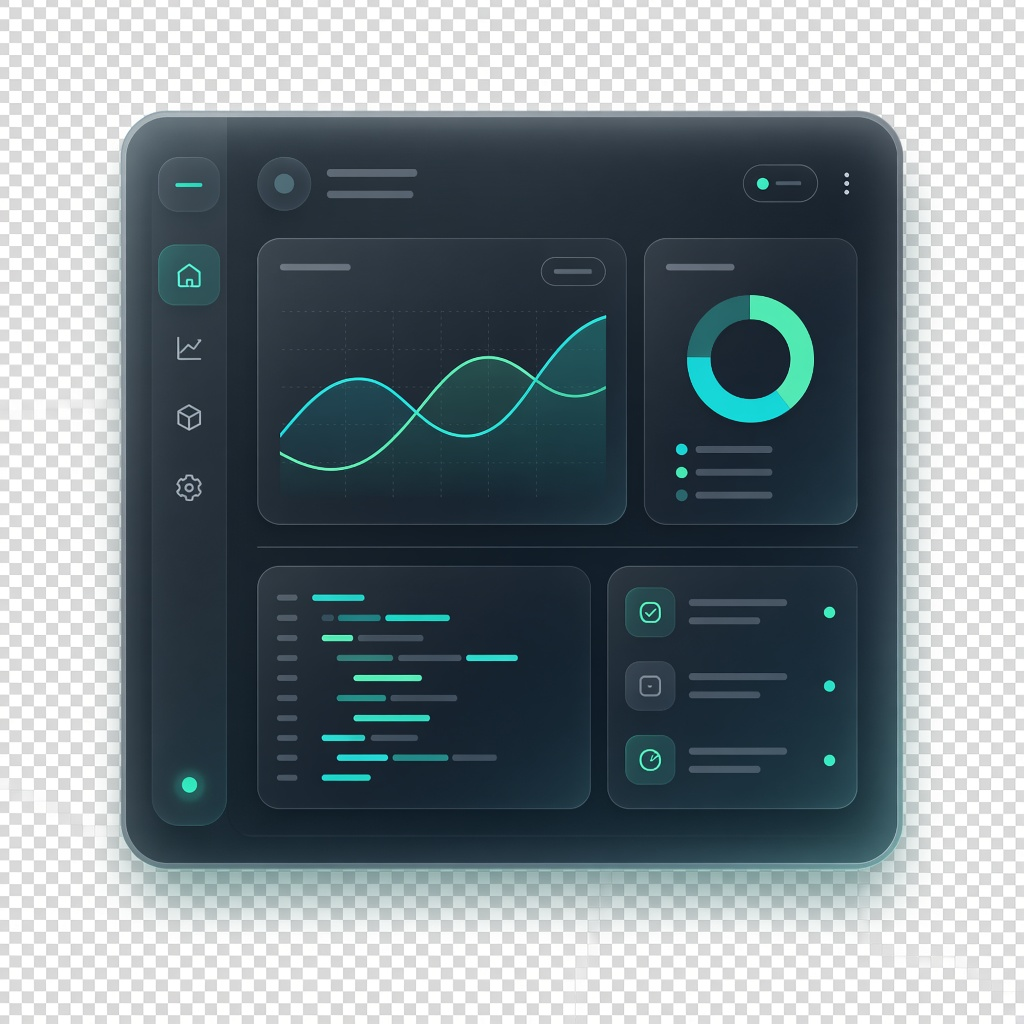
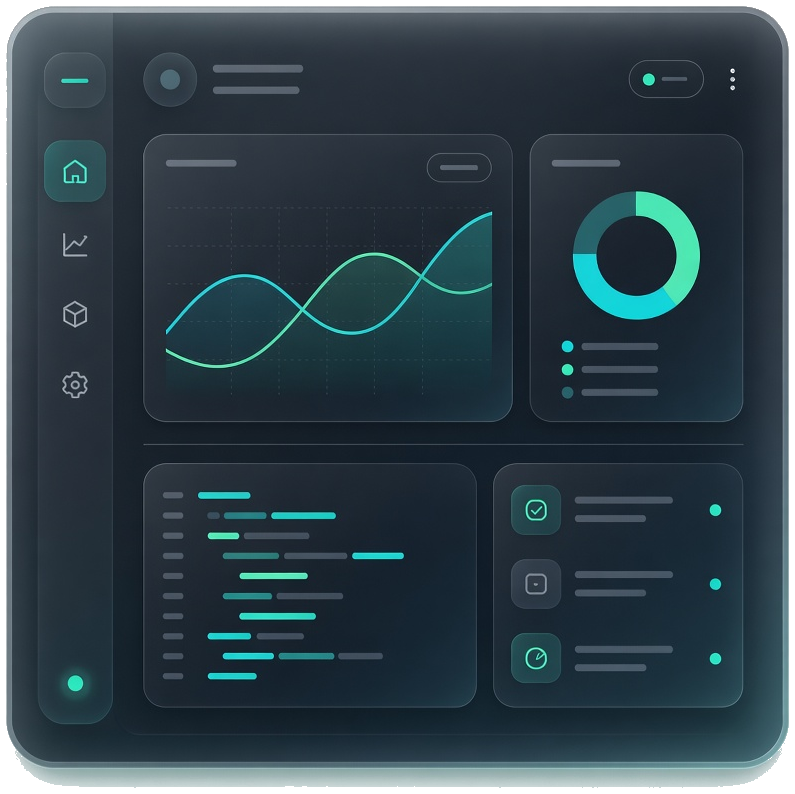
Enhance index.html with additional meta tags for SEO and accessibility, update image formats for better compatibility, and improve the structure of the hero section. Refactor styles.css for a premium dark portfolio design, optimizing visual elements and responsiveness. Update main.js to streamline c

diff --git a/css/styles.css b/css/styles.css
@@ -252,14 +252,180 @@ a:hover { text-decoration: underline; }
 .mid-asset {
   width: min(58vw, 520px);
   aspect-ratio: 1 / 1;
-  opacity: 0.5;
+  opacity: 0.72;
+  display: grid;
+  place-items: center;
 }
-.mid-asset img {
+.mid-asset > img {
   width: 100%;
   height: 100%;
   object-fit: contain;
   aspect-ratio: 1 / 1;
   filter: drop-shadow(0 28px 60px rgba(0, 0, 0, 0.45));
+  background: transparent;
+}
+
+/* CSS product mock — real transparency, no checkerboard image */
+.product-mock {
+  width: 100%;
+  aspect-ratio: 1 / 1;
+  display: grid;
+  grid-template-columns: 52px 1fr;
+  gap: 0.65rem;
+  padding: 0.85rem;
+  border-radius: 28px;
+  background: linear-gradient(145deg, rgba(22, 32, 48, 0.82), rgba(12, 18, 30, 0.78));
+  border: 1px solid rgba(255, 255, 255, 0.12);
+  box-shadow:
+    0 28px 70px rgba(0, 0, 0, 0.45),
+    0 0 40px rgba(62, 224, 192, 0.08),
+    inset 0 1px 0 rgba(255, 255, 255, 0.08);
+  backdrop-filter: blur(16px);
+  -webkit-backdrop-filter: blur(16px);
+}
+.pm-side {
+  display: flex;
+  flex-direction: column;
+  align-items: center;
+  gap: 0.7rem;
+  padding: 0.55rem 0;
+  border-radius: 16px;
+  background: rgba(0, 0, 0, 0.28);
+}
+.pm-ico {
+  width: 28px;
+  height: 28px;
+  border-radius: 9px;
+  border: 1px solid rgba(255, 255, 255, 0.12);
+  background: rgba(255, 255, 255, 0.04);
+}
+.pm-ico.is-active {
+  background: rgba(62, 224, 192, 0.22);
+  border-color: rgba(62, 224, 192, 0.55);
+  box-shadow: 0 0 16px rgba(62, 224, 192, 0.35);
+}
+.pm-dot {
+  margin-top: auto;
+  width: 8px;
+  height: 8px;
+  border-radius: 50%;
+  background: var(--accent);
+  box-shadow: 0 0 12px var(--accent);
+}
+.pm-main { display: flex; flex-direction: column; gap: 0.65rem; min-width: 0; }
+.pm-top {
+  display: flex;
+  align-items: center;
+  gap: 0.55rem;
+}
+.pm-avatar {
+  width: 28px;
+  height: 28px;
+  border-radius: 50%;
+  background: linear-gradient(135deg, rgba(62,224,192,0.5), rgba(79,140,255,0.45));
+}
+.pm-lines {
+  flex: 1;
+  height: 8px;
+  border-radius: 999px;
+  background: linear-gradient(90deg, rgba(255,255,255,0.18), rgba(255,255,255,0.05));
+}
+.pm-toggle {
+  width: 42px;
+  height: 22px;
+  border-radius: 999px;
+  background: rgba(62, 224, 192, 0.25);
+  border: 1px solid rgba(62, 224, 192, 0.4);
+  position: relative;
+}
+.pm-toggle::after {
+  content: "";
+  position: absolute;
+  top: 2px;
+  right: 3px;
+  width: 16px;
+  height: 16px;
+  border-radius: 50%;
+  background: var(--accent);
+}
+.pm-grid {
+  flex: 1;
+  display: grid;
+  grid-template-columns: 1.4fr 1fr;
+  grid-template-rows: 1.2fr 1fr;
+  gap: 0.55rem;
+  min-height: 0;
+}
+.pm-card {
+  border-radius: 14px;
+  background: rgba(255, 255, 255, 0.04);
+  border: 1px solid rgba(255, 255, 255, 0.08);
+  padding: 0.55rem;
+  min-height: 0;
+}
+.pm-chart { display: grid; }
+.pm-chart svg { width: 100%; height: 100%; }
+.pm-donut {
+  display: flex;
+  flex-direction: column;
+  align-items: center;
+  justify-content: center;
+  gap: 0.35rem;
+}
+.pm-donut .ring {
+  width: 54px;
+  height: 54px;
+  border-radius: 50%;
+  background:
+    conic-gradient(var(--accent) 0 42%, var(--accent-2) 42% 72%, rgba(255,255,255,0.15) 72% 100%);
+  mask: radial-gradient(circle at center, transparent 55%, #000 56%);
+  -webkit-mask: radial-gradient(circle at center, transparent 55%, #000 56%);
+}
+.pm-donut .leg {
+  width: 70%;
+  height: 5px;
+  border-radius: 999px;
+  background: rgba(255, 255, 255, 0.12);
+}
+.pm-code {
+  display: flex;
+  flex-direction: column;
+  justify-content: center;
+  gap: 0.35rem;
+}
+.pm-code span {
+  display: block;
+  height: 7px;
+  border-radius: 999px;
+  background: linear-gradient(90deg, rgba(62,224,192,0.55), rgba(255,255,255,0.08));
+}
+.pm-code span:nth-child(2) { width: 78%; }
+.pm-code span:nth-child(3) { width: 92%; background: linear-gradient(90deg, rgba(79,140,255,0.5), rgba(255,255,255,0.08)); }
+.pm-code span:nth-child(4) { width: 64%; }
+.pm-code span:nth-child(5) { width: 84%; }
+.pm-list {
+  display: flex;
+  flex-direction: column;
+  justify-content: center;
+  gap: 0.45rem;
+}
+.pm-list .row {
+  display: flex;
+  align-items: center;
+  gap: 0.4rem;
+}
+.pm-list i {
+  width: 16px;
+  height: 16px;
+  border-radius: 5px;
+  background: rgba(62, 224, 192, 0.25);
+  border: 1px solid rgba(62, 224, 192, 0.35);
+}
+.pm-list b {
+  flex: 1;
+  height: 6px;
+  border-radius: 999px;
+  background: rgba(255, 255, 255, 0.12);
 }
 
 .hero-card {

diff --git a/index.html b/index.html
@@ -60,7 +60,6 @@
   <!-- Critical visual preloads (WebP) -->
   <link rel="preload" as="image" href="/assets/images/layer-bg-nebula.webp" type="image/webp" fetchpriority="high" />
   <link rel="preload" as="image" href="/assets/images/profile.webp" type="image/webp" fetchpriority="high" />
-  <link rel="preload" as="image" href="/assets/images/layer-mid-product.webp" type="image/webp" />
 
   <script type="application/ld+json">
   {
@@ -152,19 +151,45 @@
         <div class="bg-veil"></div>
       </div>
 
-      <!-- Midground layer · 0.5x -->
+      <!-- Midground layer · 0.5x · CSS glass product (true transparency) -->
       <div class="stack-layer layer-mid" data-velocity="0.5" aria-hidden="true">
         <div class="mid-asset" data-scroll-anim="mid">
-          <picture>
-            <source srcset="/assets/images/layer-mid-product.webp" type="image/webp" />
-            <img
-              src="/assets/images/layer-mid-product.png"
-              alt=""
-              width="800"
-              height="800"
-              decoding="async"
-            />
-          </picture>
+          <div class="product-mock" aria-hidden="true">
+            <aside class="pm-side">
+              <span class="pm-ico is-active"></span>
+              <span class="pm-ico"></span>
+              <span class="pm-ico"></span>
+              <span class="pm-ico"></span>
+              <span class="pm-dot"></span>
+            </aside>
+            <div class="pm-main">
+              <header class="pm-top">
+                <span class="pm-avatar"></span>
+                <span class="pm-lines"></span>
+                <span class="pm-toggle"></span>
+              </header>
+              <div class="pm-grid">
+                <div class="pm-card pm-chart">
+                  <svg viewBox="0 0 200 100" preserveAspectRatio="none">
+                    <path d="M0 70 C40 20, 80 90, 120 40 S180 20, 200 55" fill="none" stroke="rgba(62,224,192,0.9)" stroke-width="2.5"/>
+                    <path d="M0 55 C50 80, 90 30, 140 60 S180 70, 200 35" fill="none" stroke="rgba(79,140,255,0.75)" stroke-width="2"/>
+                  </svg>
+                </div>
+                <div class="pm-card pm-donut">
+                  <span class="ring"></span>
+                  <span class="leg"></span><span class="leg"></span><span class="leg"></span>
+                </div>
+                <div class="pm-card pm-code">
+                  <span></span><span></span><span></span><span></span><span></span>
+                </div>
+                <div class="pm-card pm-list">
+                  <div class="row"><i></i><b></b></div>
+                  <div class="row"><i></i><b></b></div>
+                  <div class="row"><i></i><b></b></div>
+                </div>
+              </div>
+            </div>
+          </div>
         </div>
       </div>
 
